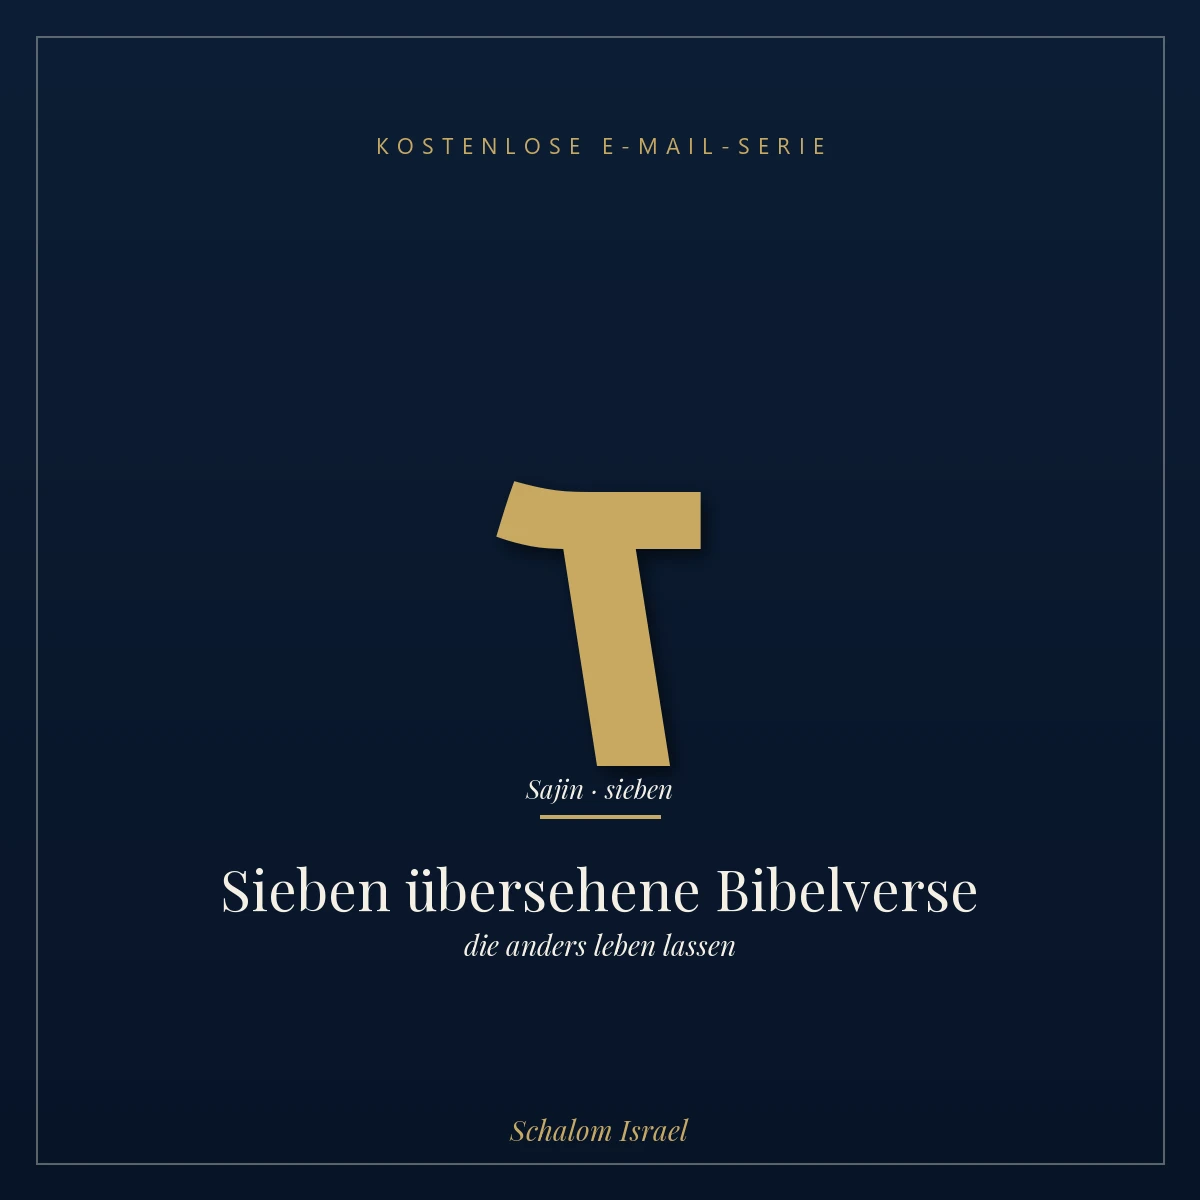
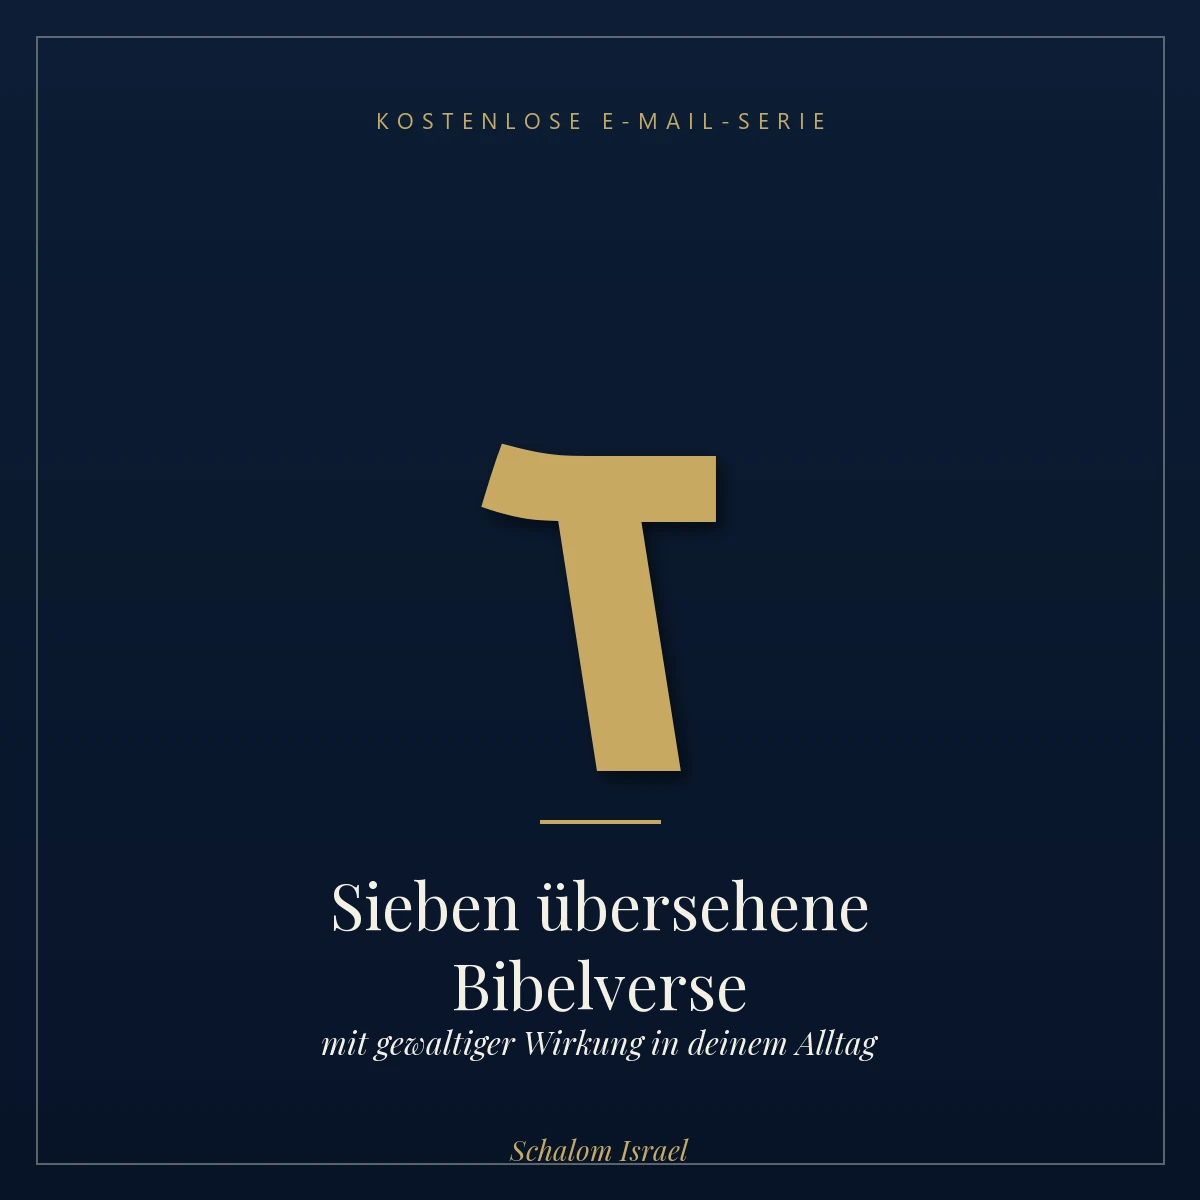
fix(freebie): V3 Sajin überarbeitet
- ז größer (size 600 → 620) und höher platziert
- Title + Subtitle größer und identisch zu V2 (Sieben übersehene
  Bibelverse / mit gewaltiger Wirkung in deinem Alltag)
- Translit-Untertitel entfernt — gibt der Komposition mehr Atem,
  Buchstabe und Wort-Title stehen klarer für sich

diff --git a/_intern/generate-freebie-covers.py b/_intern/generate-freebie-covers.py
@@ -231,14 +231,14 @@ def variante_3_sajin():
     draw = ImageDraw.Draw(img)
     add_inner_border(img)
 
-    # Eyebrow
-    draw_eyebrow(draw, "Kostenlose E-Mail-Serie", 130)
+    # Eyebrow ganz oben
+    draw_eyebrow(draw, "Kostenlose E-Mail-Serie", 105)
 
-    # Riesiges ז in Alef-Bold (gold)
-    f_heb = load_font(FONT_ALEF_BOLD, 540)
+    # Riesiges ז in Alef-Bold (gold) — groß, oben sitzend
+    f_heb = load_font(FONT_ALEF_BOLD, 620)
     w_heb, h_heb = text_size(draw, "ז", f_heb)
     x_heb = (SIZE - w_heb) // 2
-    y_heb = 220
+    y_heb = 145
     # Drop-Shadow
     shadow = Image.new("RGBA", (SIZE, SIZE), (0, 0, 0, 0))
     sd = ImageDraw.Draw(shadow)
@@ -247,23 +247,20 @@ def variante_3_sajin():
     img.paste(shadow, (0, 0), shadow)
     draw.text((x_heb, y_heb), "ז", fill=GOLD, font=f_heb)
 
-    # Romanisierung als kleiner Zusatz
-    f_translit = load_font(FONT_PLAYFAIR_ITA, 26)
-    draw_centered(draw, "Sajin · sieben", f_translit, 770, CREAM)
+    # Gold-Linie als Trenner zwischen Buchstabe und Title
+    draw_gold_line(draw, 820, width=120)
 
-    # Gold-Linie
-    draw_gold_line(draw, 815, width=120)
+    # Title — zweizeilig, identische Worte wie V2, größer als zuvor
+    f_title = load_font(FONT_PLAYFAIR_REG, 64)
+    draw_centered(draw, "Sieben übersehene", f_title, 860, CREAM)
+    draw_centered(draw, "Bibelverse", f_title, 940, CREAM)
 
-    # Title
-    f_title = load_font(FONT_PLAYFAIR_REG, 56)
-    draw_centered(draw, "Sieben übersehene Bibelverse", f_title, 850, CREAM)
-
-    # Subtitle
-    f_sub = load_font(FONT_PLAYFAIR_ITA, 28)
-    draw_centered(draw, "die anders leben lassen", f_sub, 925, CREAM)
+    # Subtitle — größer als zuvor
+    f_sub = load_font(FONT_PLAYFAIR_ITA, 32)
+    draw_centered(draw, "mit gewaltiger Wirkung in deinem Alltag", f_sub, 1020, CREAM)
 
     # Brand
-    draw_brand(draw, y=SIZE - 90)
+    draw_brand(draw, y=SIZE - 70)
 
     save_webp(img, "v3-sajin.webp")
     return img
